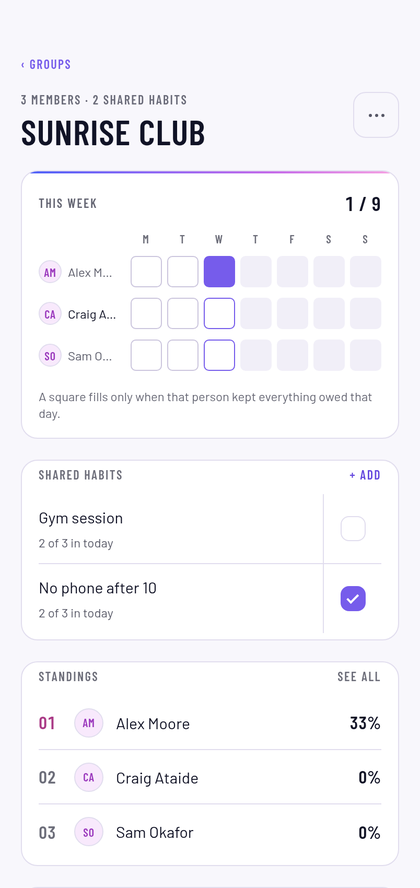
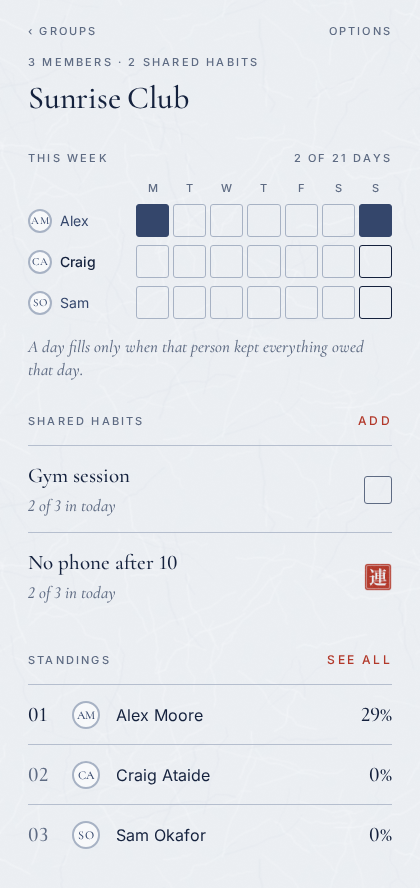
docs: the README and screenshots for the NavySum redesign
The design-system sections now describe the shared NavySum style and the
contrast findings, the counts match the new test suite and harness, and
every screenshot shows the new look across four of the six themes.

Claude-Session: https://claude.ai/code/session_01PD6rwhbzsrjs9UJxGusiUS

diff --git a/README.md b/README.md
@@ -1,6 +1,6 @@
 <div align="center">
 
-<img src="./assets/brand/logo-source.png" width="132" alt="StreakMates" />
+<img src="./assets/icon.png" width="132" alt="The StreakMates seal: 連 in white, cut into a red stamp on paper" />
 
 # StreakMates
 
@@ -12,12 +12,12 @@ A habit tracker built around the people you're doing it with.
 
 `React Native` · `Expo` · `TypeScript` · `Supabase` · `PostgreSQL`
 
-**Status (Sep 2026): live on the web.** The latest change (12 Sep) closed a
-username-enumeration gap.
+**Status (Sep 2026): live on the web.** The latest change moves it onto the
+NavySum design system — the house style it shares with every other NavySum app.
 
 </div>
 
-<img src="./docs/screens/banner.png" alt="Today, habit detail, the group leaderboard and the focus timer, in light and dark" />
+<img src="./docs/screens/banner.png" alt="Today, a habit, the leaderboard and the focus timer, in four of the six themes: Washi, Sumi, Aizome and LifeOS Dark" />
 
 ---
 
@@ -52,7 +52,10 @@ the app follows from that decision, including most of the hard parts:
 - **A live board** showing who kept what this week, updating over Realtime
 - **A leaderboard** that measures consistency, not volume — see [below](#the-leaderboard-had-to-be-fair)
 - **A focus timer** with shared task lists
-- **Streaks, heatmaps and milestones**, with a colour that changes as a run grows
+- **Streaks, heatmaps and milestones** — each check-in stamps a seal, and a run
+  that reaches a week, a month, a hundred days or a year gets one quiet line
+- **Six themes** — Washi & Seal, LifeOS and Aizome, each light, dark or
+  following the phone
 - **Works offline** — check-ins queue and replay when you're back
 - **Runs on iOS, Android and the web** from one codebase
 
@@ -238,45 +241,66 @@ There is also a second way to win. **Most improved** compares this week against
 last, because a ladder where the same person is always top is a ladder everyone
 else stops looking at.
 
-### The design system is measured, not chosen
+### One design system, shared by every NavySum app
 
-The brand palette is light by design, which makes several of its colours
-unreadable as text — orchid measures 2.98:1 on white. So each theme carries its
-own variant of each meaning, and screens read `colors.meaning.social` rather
-than reaching for a hex.
+StreakMates is one of several NavySum apps, and they are meant to feel like one
+family rather than five. So it is built on the NavySum house style, first seen
+in Parables: **paper, ink and one red seal.** The kit lives in `src/theme` and
+`src/components/ui.tsx` under the same names every NavySum app uses, so a
+component written for one reads the same in all of them.
 
-The contrast rules are **tests**, not comments:
+- **One accent.** The seal colour marks the single most important thing on a
+  screen — the stamp on a completed habit, the active tab, a text button. No
+  gradients, no second accent, no coloured backgrounds. On a list of habits
+  the week is drawn in ink and only the stamps are red; a habit's own calendar
+  is stamped in red, as a NavySum calendar is.
+- **Type carries hierarchy, not boxes.** Cormorant Garamond for content, Inter
+  for controls, small uppercase tracked labels above sections, hairlines
+  instead of cards.
+- **Completion is a stamp.** Checking a habit in brings the seal down — 1.3× to
+  its own size over 260 ms, easing out, with a success haptic; under Reduce
+  Motion it simply fades in. StreakMates' seal says 連: "in a row", and "a
+  companion who comes along". It is drawn from the font by
+  `scripts/make-icons.mjs`, which also cuts every app icon from it.
+- **Three tabs, in words.** Today, Groups and Focus. You — profile, record,
+  settings — moved behind your monogram in each tab's corner.
+- **Six themes.** Washi & Seal, LifeOS and Aizome, each designed in light and
+  dark rather than inverted, with Automatic following the phone. Each family's
+  fonts load only when it is chosen.
+
+### The palettes are measured, not trusted
+
+The design system states that its palettes pass WCAG AA. Measured over all six
+themes, three pairings it calls for do not:
+
+| Pairing | Worst case | What the app does instead |
+| --- | --- | --- |
+| muted ink on a modal's deeper paper | 4.22:1, Washi | modals and sheets are drawn in a *deepened* theme that steps muted ink up to the softer ink |
+| the accent on its own wash — a selected chip | 4.00:1, Aizome Night | a selected chip writes its label in ink, and keeps the accent for its edge and a small square mark |
+| text on an accent fill | 3.54:1, Sumi | only LifeOS, where it passes, fills anything with the accent |
+
+The rules are **tests**, not comments — every ink on every ground it is drawn
+on, in all six themes — and each workaround has a guard that fails the day the
+palette is fixed, so the workaround can go:
 
 ```
-theme: every meaning is readable as ink on every ground
-theme: the ink floor of 62 clears AA
-theme: the brand gradient does NOT carry text — which is why the other exists
+washi-light: every ink clears AA on a modal, once deepened
+aizome-dark: a selected chip's label clears AA, on the page and on a modal
+guard: the accent on its own wash fails, which is why chips write ink
 ```
 
-That last one is a guard. The sign-in button was originally filled with the full
-brand gradient, which ends in soft pink: white on it is **1.85:1**. The label was
-readable at the left of the button and not at the right. No choice of ink fixes
-that, because the sweep spans both ends of the lightness range — so there is a
-second, darker gradient for anything with a label on it, and a test that fails
-if someone "simplifies" the two back into one.
-
-### Colour carries meaning
-
-Blue is progress, violet is a primary action, orchid is social, pink is
-celebration. The full gradient is reserved for genuine accomplishments and
-appears in exactly one place in the app.
-
-A streak's colour climbs that spectrum as it grows — blue at a day, violet at a
-week, pink at a month — so the colour of a number tells you how long it has been
-true.
+The type is measured the same way. Cormorant's default figures are old-style,
+so a habit called "No phone after 10" read "after IO" until every display style
+was set in lining figures; a test now holds all of them to it, and holds every
+line box to the height its face actually needs.
 
 <div align="center">
-<img src="./docs/screens/milestone.png" width="300" alt="A seven-day streak announced with the brand gradient" />
+<img src="./docs/screens/milestone.png" width="300" alt="A run reaching a week, announced in one quiet line between two hairlines" />
 <img src="./docs/screens/loading.png" width="300" alt="Skeleton loading in the shape of the real content" />
 </div>
 
-*Left: the one place the full gradient appears. Right: loading shows structure —
-first-load layout shift is measured at 0px.*
+*Left: a run reaching a week — one quiet line, no confetti, and it goes on its
+own. Right: loading shows structure — first-load layout shift is measured at 0px.*
 
 ---
 
@@ -286,9 +310,9 @@ Three layers, because they catch different things.
 
 | Layer | What it covers | Size |
 | --- | --- | --- |
-| **Unit tests** | streaks, dates, leaderboard maths, contrast, type scaling, offline queue | 196 assertions |
+| **Unit tests** | streaks, dates, leaderboard maths, contrast and type in all six themes, offline queue | 236 tests |
 | **Attack suite** | RLS policies, from every role, on a real Postgres | 122 assertions, 25 scenarios |
-| **Browser harness** | the real screens, with a fake session and mocked network | 8 screens, both themes |
+| **Browser harness** | the real screens, with a fake session and mocked network | 11 screens, all six themes |
 
 The third layer earned its place. Everything behind the sign-in gate is
 otherwise unreviewable without a live database and a real account, so
@@ -301,7 +325,7 @@ tiny rainbows. It also measures things that are cheap to assert and easy to
 regress:
 
 ```bash
-npm run preview:screens    # all 8 screens, both themes, console errors
+npm run preview:screens    # all 11 screens, all six themes, console errors
 npm run preview:touch      # every touch target ≥ 44×44, no horizontal overflow
 npm run preview:gestures   # long-press opens the sheet — and a tap still doesn't
 npm run preview:premium    # optimistic writes, skeletons, milestone, remembered tab
@@ -326,7 +350,7 @@ through in [`supabase/README.md`](./supabase/README.md) — creating the project
 running the migrations in order, and wiring up Google sign-in.
 
 ```bash
-npm test                    # 196 unit tests
+npm test                    # 236 unit tests
 npm run typecheck           # tsc --noEmit
 ./supabase/tests/run.sh     # the attack suite (needs a local postgres)
 npm run build:web           # static export
@@ -338,26 +362,30 @@ npm run build:web           # static export
 
 ```
 app/                  screens — expo-router, file-based
-  (tabs)/             Today · Groups · Focus · You
+  (tabs)/             Today · Groups · Focus
+  you.tsx             You — opened from your monogram, not a tab
   group/  habit/      detail and modal flows
 src/
-  components/         the design system — Plate, HabitRow, WeekStrip, Tick…
+  components/         ui.tsx is the NavySum kit — Paper, Seal, Label, Button…
+                      the rest are StreakMates' own — HabitRow, Stamp, WeekStrip…
   lib/                pure logic: streaks, leaderboard, dates, outbox, tasks
-  theme/              palette.ts and type-scale.ts (pure, tested)
-                      tokens.ts — the only file that touches the platform
+  theme/              palette.ts and type-scale.ts — six themes, pure, tested
+                      index.ts — the only file that touches the platform
   auth/               session, Google OAuth, deep links
 supabase/
   migrations/         14, applied in filename order (two share the 0013 prefix)
   tests/              the attack suite
 scripts/preview/      the browser harness
+scripts/make-icons.mjs  the 連 seal and every app icon, drawn from the font
 docs/                 security notes, web deployment, Life Operating System habit-sync design, plan, screenshots
 PLAN.md               the original v1 product plan
 ```
 
-The theme is split for a reason worth stating: `tokens.ts` reads `PixelRatio`
-and therefore imports react-native, which the test runner can't parse. Keeping
-colour and type in pure files means the palette stays directly testable, and one
-named file owns the platform dependency.
+The theme is split for a reason worth stating: `index.ts` attaches the paper
+textures, which are `require`d images only the bundler understands, so the test
+runner cannot load it. Keeping colour and type in pure files means all six
+palettes stay directly testable, and one named file owns the platform
+dependency.
 
 ---
 
@@ -372,7 +400,12 @@ usually one that hasn't been looked at:
 - **A real end-to-end suite** against a disposable Supabase project; the browser
   harness mocks the network, so it proves the client and not the round trip
 - **Android predictive back** — off until it can be tested on a physical device
-- **Typography scale** — body sits at 15px against a platform norm nearer 17
+- **Large text on a device** — the type scale caps hero type and numerals as
+  the design system asks, but it has been checked in a browser, where the
+  phone's text size cannot be set
+- **The design system's palettes** — the three pairings above fail AA in the
+  shared kit; fixing them there would let every NavySum app drop its
+  workaround
 
 ---
 
